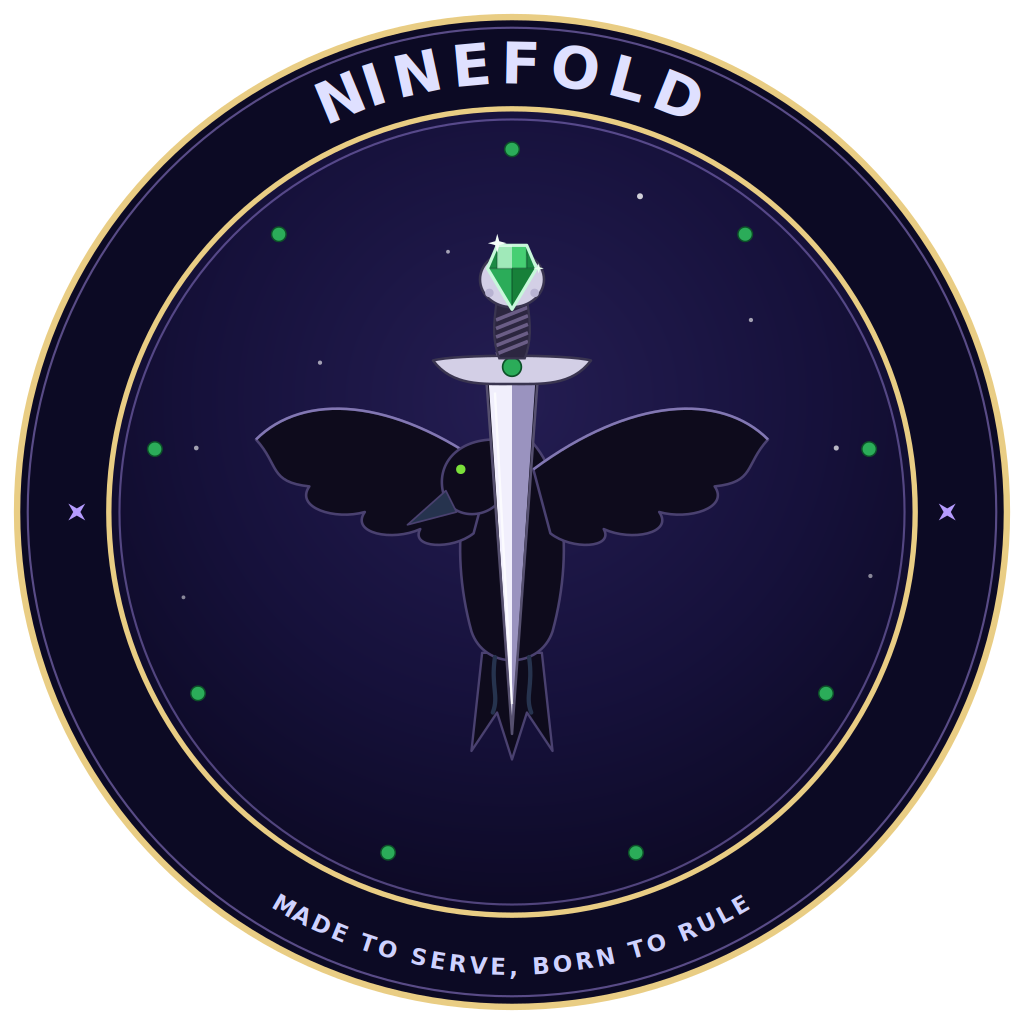
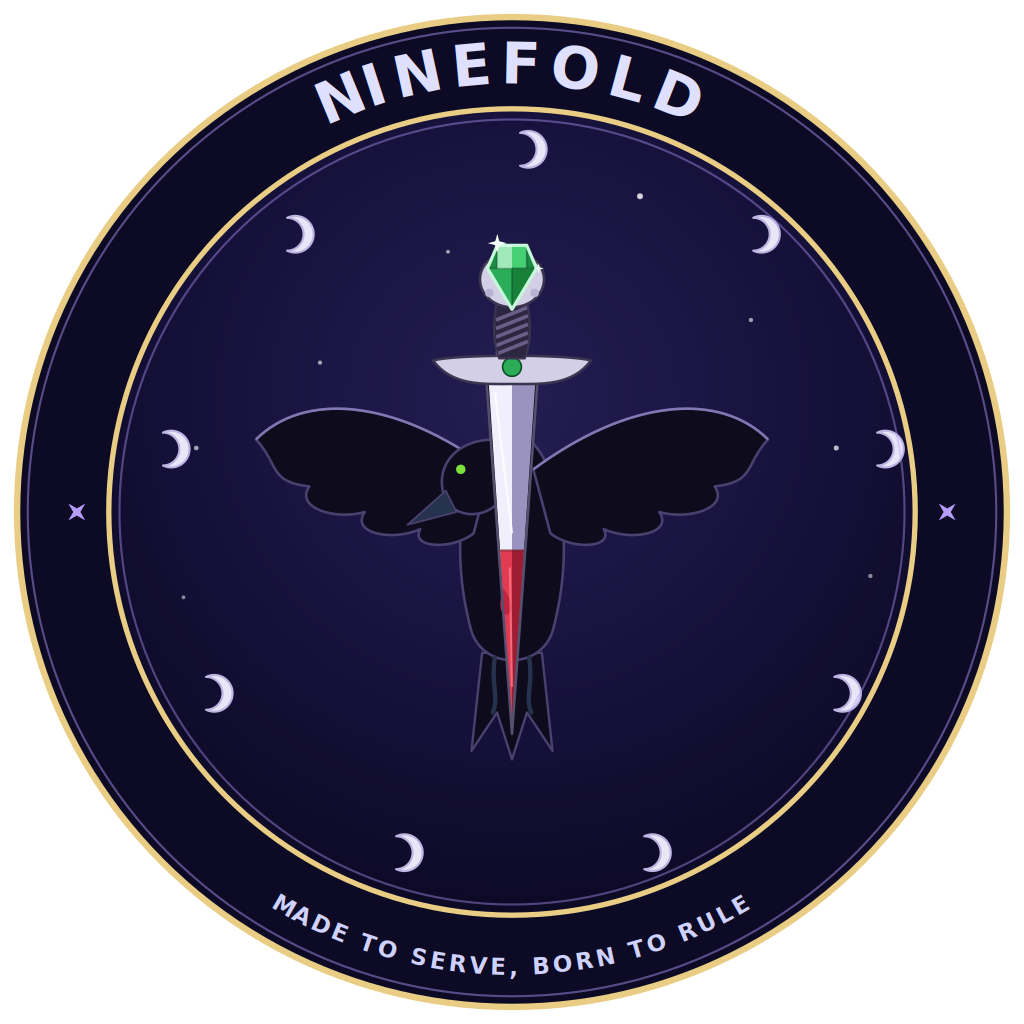
Ninefold: crescent-moon ring and a bloodied blade
Swap the nine rim studs for nine silver crescent moons, and run the
dagger's bottom half blood-red where it is driven through the raven,
with the bloody tip emerging below.

https://claude.ai/code/session_011UPzS9XkJbwuZtqhiJkvF1

diff --git a/assets/branding/README.md b/assets/branding/README.md
@@ -40,7 +40,7 @@ distinct central motif, palette, and motto on the shared gold-ringed disc.
 | `emblem` (Astromancers) | hooded magus conjuring a starship | SCIENTIA EST MAGIA |
 | `factions/hollowmen` | rim-lit mech torso, a station firing into its heart | WE MAKE OUR OWN POWER |
 | `factions/rimeling` | crystalline chalice drinking borrowed fire (Jupiter + 4 moons) | ALL FIRE IS BORROWED |
-| `factions/ninefold` | emerald-set dagger plunged through a black raven, ringed by nine studs | MADE TO SERVE, BORN TO RULE |
+| `factions/ninefold` | emerald-set dagger, blade bloodied, plunged through a black raven; ringed by nine crescent moons | MADE TO SERVE, BORN TO RULE |
 | `factions/warren` | rat-tower planting a flag on the moon | THERE ARE ALWAYS MORE OF US |
 
 The four non-flagship patches were generated by a script (per-faction motif on
